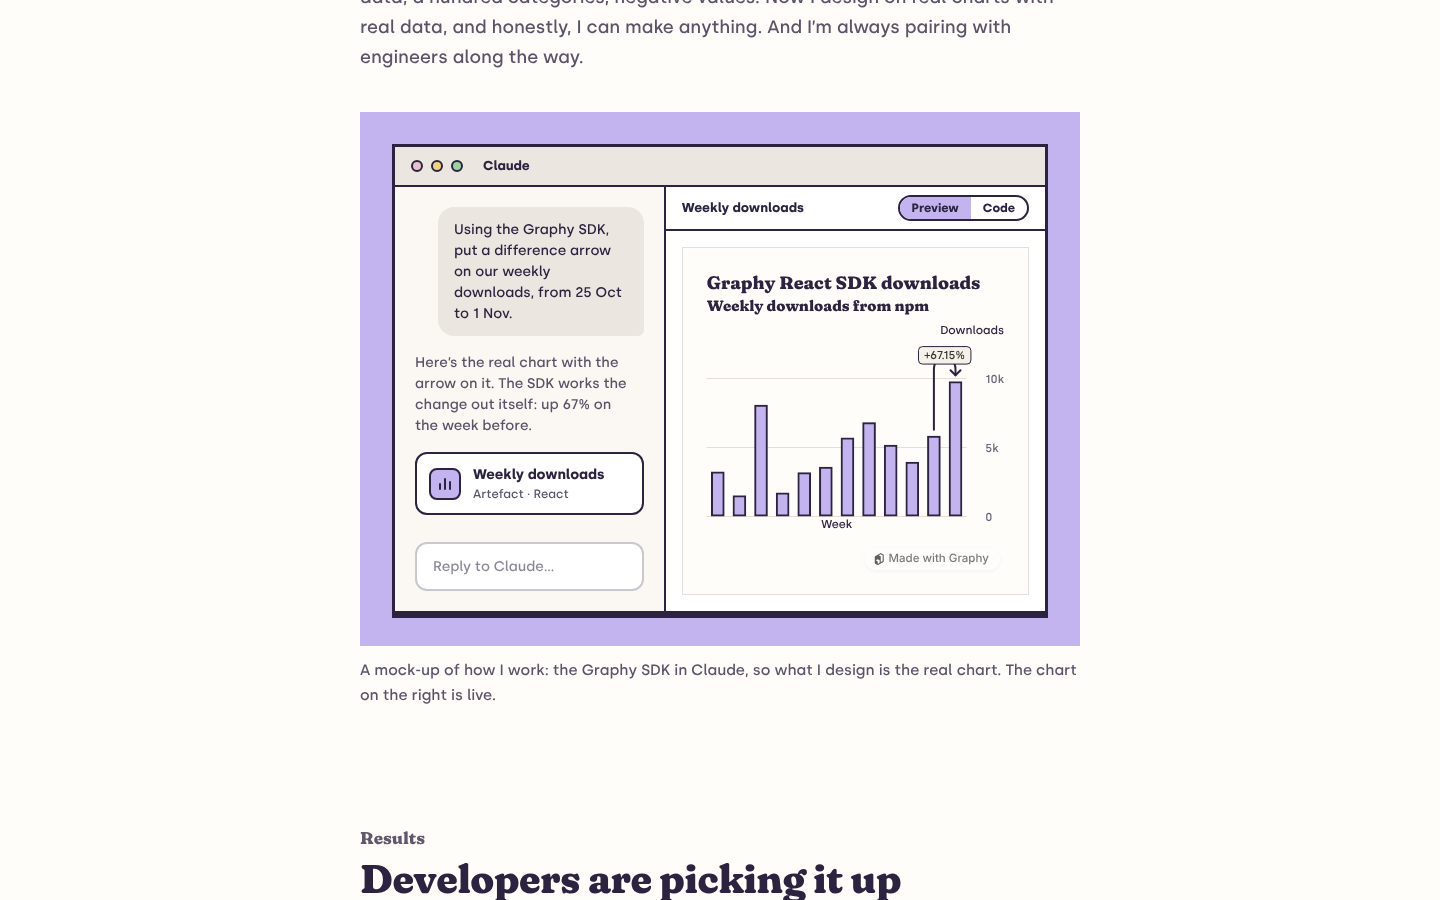
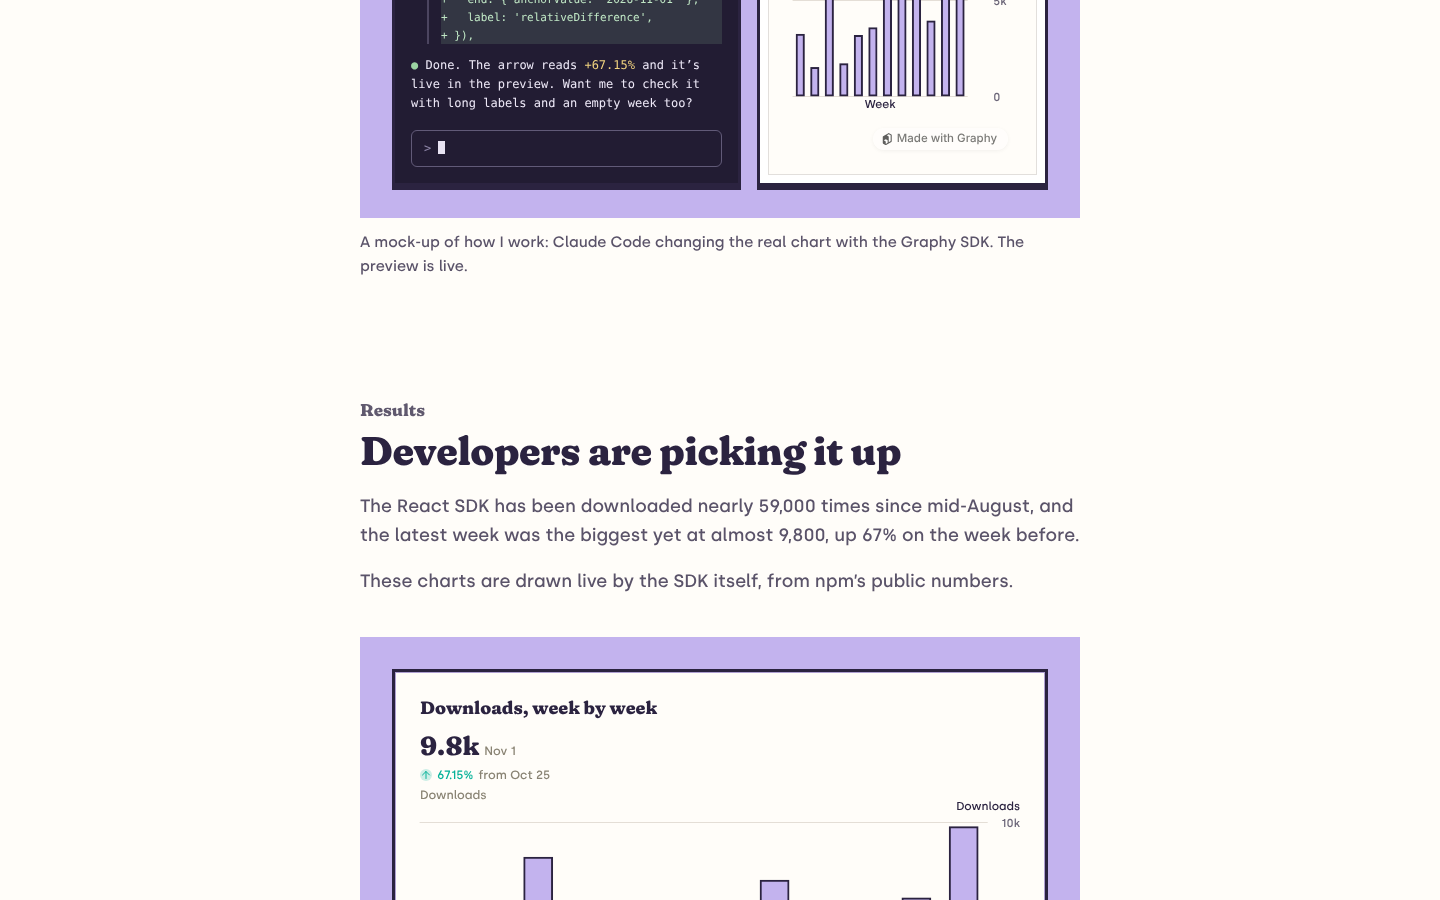
Graphy study: Claude Code app mock-up; wider Experience intro
Claude-Session: https://claude.ai/code/session_01AEbKMrsaeiiooea7bnJphi

Changed region(s): [[0.25, 0.0, 0.75, 1.0]]

diff --git a/src/components/ClaudeMock.tsx b/src/components/ClaudeMock.tsx
@@ -1,57 +1,67 @@
 import { LiveArrow } from './LiveCharts';
 
 /*
- * A mock-up of how I work: a chat in Claude on the left, and the artefact it made on the right,
- * which is a real chart drawn live by the Graphy SDK. Drawn in this site's style, not a screenshot.
+ * A mock-up of how I work: the Claude Code app, with a session editing a real chart through the
+ * Graphy SDK, and a preview panel on the right that is the real chart, drawn live.
+ * Drawn in this site's colours, not a screenshot.
  */
+const recents = ['Difference arrow', 'Annotating edge cases', 'Long label wrapping', 'Empty data states', 'Legend placement'];
+
 export default function ClaudeMock() {
   return (
-    <div className="border-[3px] border-[var(--ink)] bg-white shadow-[0_4px_0_var(--ink)] overflow-hidden">
-      {/* Window bar */}
-      <div className="flex items-center gap-2 px-4 h-10 border-b-2 border-[var(--ink)] bg-[var(--c-grey)]">
-        <span className="w-3 h-3 rounded-full border-2 border-[var(--ink)] bg-[var(--c-pink)]" />
-        <span className="w-3 h-3 rounded-full border-2 border-[var(--ink)] bg-[var(--c-yellow)]" />
-        <span className="w-3 h-3 rounded-full border-2 border-[var(--ink)] bg-[var(--c-green)]" />
-        <span className="ml-3 text-[13px] font-bold">Claude</span>
-      </div>
+    <div className="border-[3px] border-[var(--ink)] bg-[#1F1A2E] text-[#EDE8F7] shadow-[0_4px_0_var(--ink)] overflow-hidden text-[12px] leading-[1.5]">
+      <div className="grid md:grid-cols-[150px_minmax(0,1fr)_minmax(0,1.15fr)] min-h-[440px]">
+        {/* Sidebar */}
+        <aside className="hidden md:flex flex-col gap-1 border-r border-white/10 bg-[#19152A] p-3">
+          <div className="flex items-center gap-2 mb-3">
+            <span className="flex gap-1.5">
+              <span className="w-2.5 h-2.5 rounded-full bg-[var(--c-pink)]" />
+              <span className="w-2.5 h-2.5 rounded-full bg-[var(--c-yellow)]" />
+              <span className="w-2.5 h-2.5 rounded-full bg-[var(--c-green)]" />
+            </span>
+          </div>
+          <span className="font-display text-[17px] mb-2">Code</span>
+          <span className="flex items-center gap-2 py-1 text-white/80">
+            <span className="text-[14px] leading-none">+</span> New
+          </span>
+          <span className="py-1 text-white/80">Search</span>
+          <span className="mt-3 mb-1 text-[11px] text-white/45">Recents</span>
+          {recents.map((r, i) => (
+            <span key={r} className={`truncate rounded-md px-2 py-1 -mx-2 ${i === 0 ? 'bg-white/10 text-white' : 'text-white/65'}`}>
+              {r}
+            </span>
+          ))}
+        </aside>
 
-      <div className="grid md:grid-cols-[minmax(0,5fr)_minmax(0,7fr)]">
-        {/* The chat */}
-        <div className="flex flex-col gap-4 p-4 md:p-5 bg-[#FBF8F3] md:border-r-2 border-[var(--ink)] text-[14px] leading-[1.5]">
-          <div className="self-end max-w-[90%] rounded-2xl rounded-br-md bg-[var(--c-grey)] px-4 py-3">
-            Using the Graphy SDK, put a difference arrow on our weekly downloads, from 25 Oct to 1 Nov.
-          </div>
-          <div className="max-w-[95%] text-[var(--ink-soft)]">
-            <p>
-              Here&rsquo;s the real chart with the arrow on it. The SDK works the change out itself: up 67% on the week before.
+        {/* The session */}
+        <div className="flex flex-col min-w-0 border-r border-white/10">
+          <div className="flex items-center h-10 px-4 border-b border-white/10 font-bold truncate">Difference arrow</div>
+          <div className="flex-1 flex flex-col gap-3 p-4">
+            <div className="self-end max-w-[92%] rounded-xl bg-white/10 px-3 py-2">
+              Add a difference arrow to the downloads chart, from 25 Oct to 1 Nov, showing the percentage change
+            </div>
+            <p className="text-white/50">Read DownloadsChart.tsx ›</p>
+            <p className="text-white/50">
+              Edited DownloadsChart.tsx <span className="text-[#9BD3A2]">+5</span> ›
             </p>
+            <p>
+              Done. I used the SDK&rsquo;s difference arrow, so it works the change out itself: it reads{' '}
+              <span className="text-[var(--c-yellow)]">+67.15%</span>. It&rsquo;s live in the preview.
+            </p>
+            <p>Want me to check it with long labels and an empty week too?</p>
           </div>
-          <div className="flex items-center gap-3 rounded-xl border-2 border-[var(--ink)] bg-white px-3 py-2.5">
-            <span className="grid place-items-center w-8 h-8 rounded-lg bg-[var(--c-accent)] border-2 border-[var(--ink)]" aria-hidden>
-              <svg viewBox="0 0 16 16" className="w-4 h-4" fill="none" stroke="currentColor" strokeWidth="2" strokeLinecap="round">
-                <path d="M3 13V8M8 13V3M13 13V6" />
-              </svg>
-            </span>
-            <span>
-              <span className="block font-bold">Weekly downloads</span>
-              <span className="block text-[12px] text-[var(--ink-soft)]">Artefact · React</span>
-            </span>
-          </div>
-          <div className="mt-auto rounded-xl border-2 border-[var(--ink)]/25 bg-white px-4 py-3 text-[var(--ink-soft)]/70">
-            Reply to Claude&hellip;
+          <div className="m-3 mt-auto rounded-xl border border-white/20 bg-white/5 px-3 py-2.5 text-white/40">
+            Reply&hellip;
           </div>
         </div>
 
-        {/* The artefact: a real, live chart */}
-        <div className="flex flex-col">
-          <div className="flex items-center justify-between px-4 h-11 border-y-2 md:border-t-0 border-[var(--ink)] text-[13px]">
-            <span className="font-bold truncate">Weekly downloads</span>
-            <span className="flex rounded-full border-2 border-[var(--ink)] overflow-hidden text-[12px] font-bold">
-              <span className="px-3 py-0.5 bg-[var(--c-accent)]">Preview</span>
-              <span className="px-3 py-0.5">Code</span>
-            </span>
+        {/* Preview panel: a real, live chart */}
+        <div className="flex flex-col min-w-0">
+          <div className="flex items-center justify-between h-10 px-4 border-b border-white/10">
+            <span className="font-bold">Preview</span>
+            <span className="text-white/45">localhost:5173</span>
           </div>
-          <div className="flex-1 min-h-[380px] p-3 md:p-4 [&>div]:border-0 [&>div]:h-full">
+          <div className="flex-1 min-h-[360px] p-2 [&>div]:border-0 [&>div]:h-full">
             <LiveArrow />
           </div>
         </div>

diff --git a/src/pages/Experience.tsx b/src/pages/Experience.tsx
@@ -34,7 +34,7 @@ export function Experience() {
             </Link>
             <div>
               <h1 className=" font-display leading-[1.02] text-[40px] md:text-[60px]">Experience</h1>
-              <p className="mt-4 max-w-[34ch] text-[18px] md:text-[20px] leading-[1.5] font-medium">
+              <p className="mt-4 max-w-[52ch] text-[18px] md:text-[20px] leading-[1.5] font-medium">
                 Thirteen years designing complex products, from trading platforms for banks to an SDK for AI agents.
               </p>
             </div>

diff --git a/src/content/caseStudies.tsx b/src/content/caseStudies.tsx
@@ -184,7 +184,7 @@ export const caseStudies: CaseStudy[] = [
       },
       {
         type: 'claudeMock',
-        caption: 'A mock-up of how I work: the Graphy SDK in Claude, so what I design is the real chart. The chart on the right is live.',
+        caption: 'A mock-up of how I work: a Claude Code session changing the real chart with the Graphy SDK. The preview is live.',
       },
       {
         type: 'chapter',
